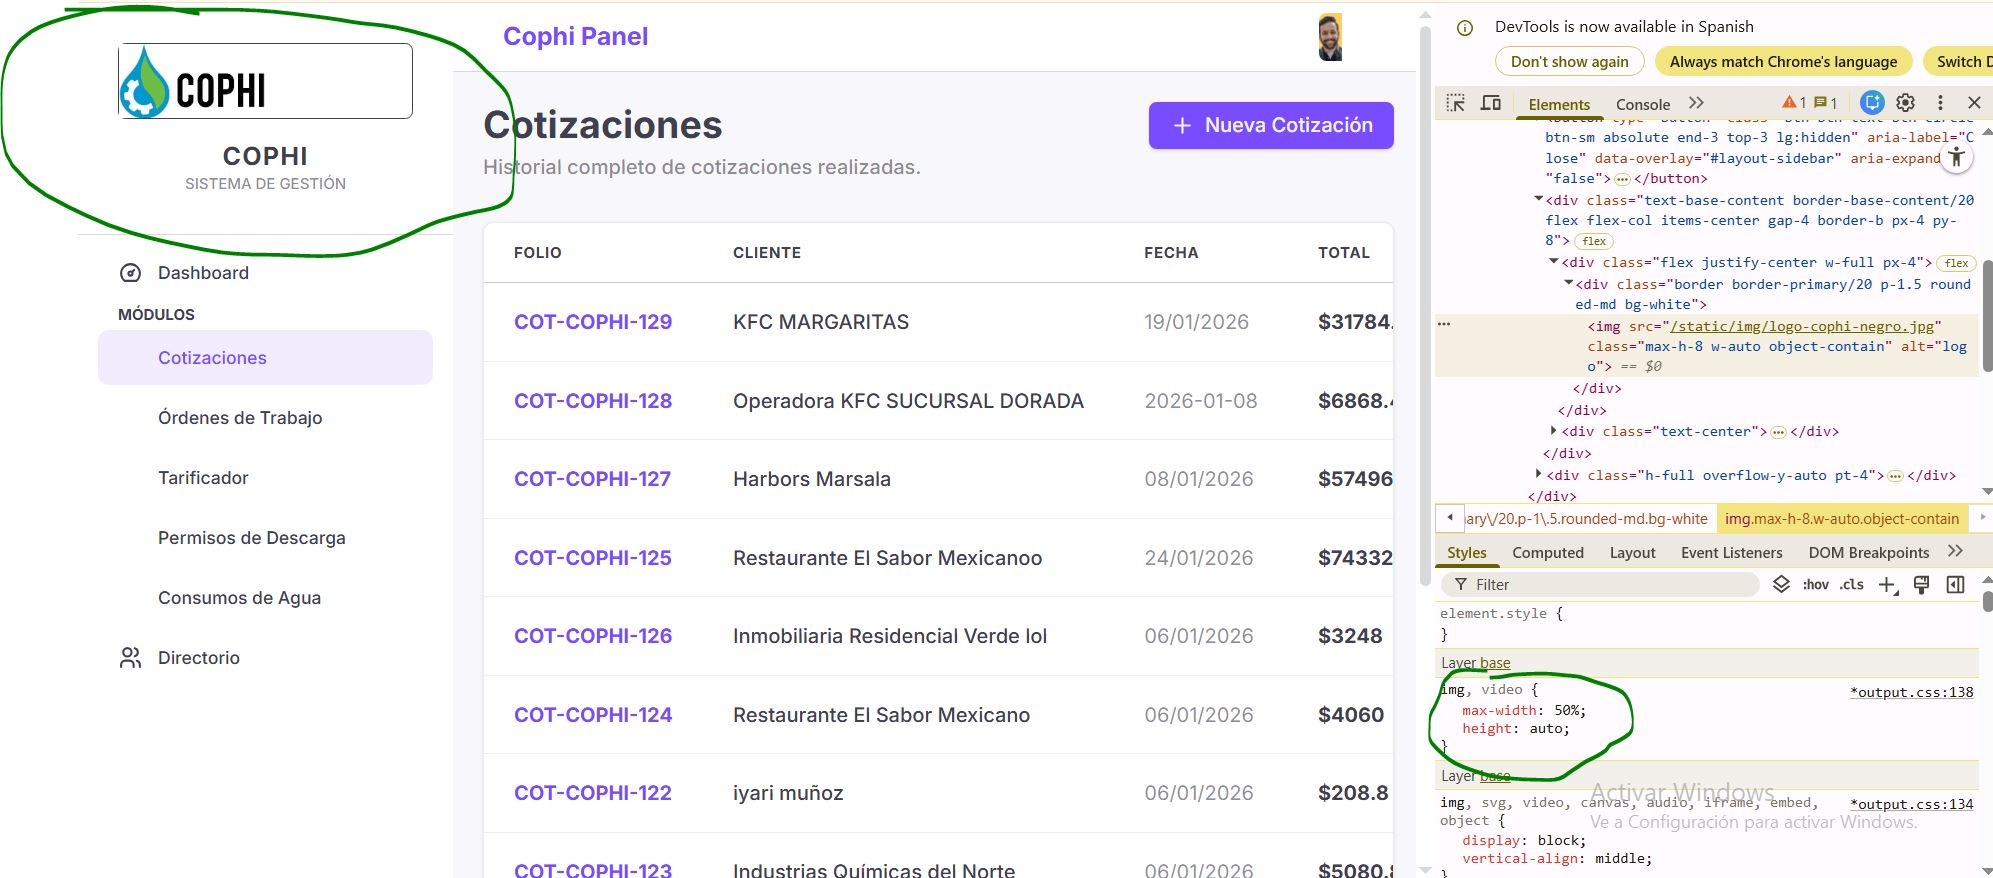
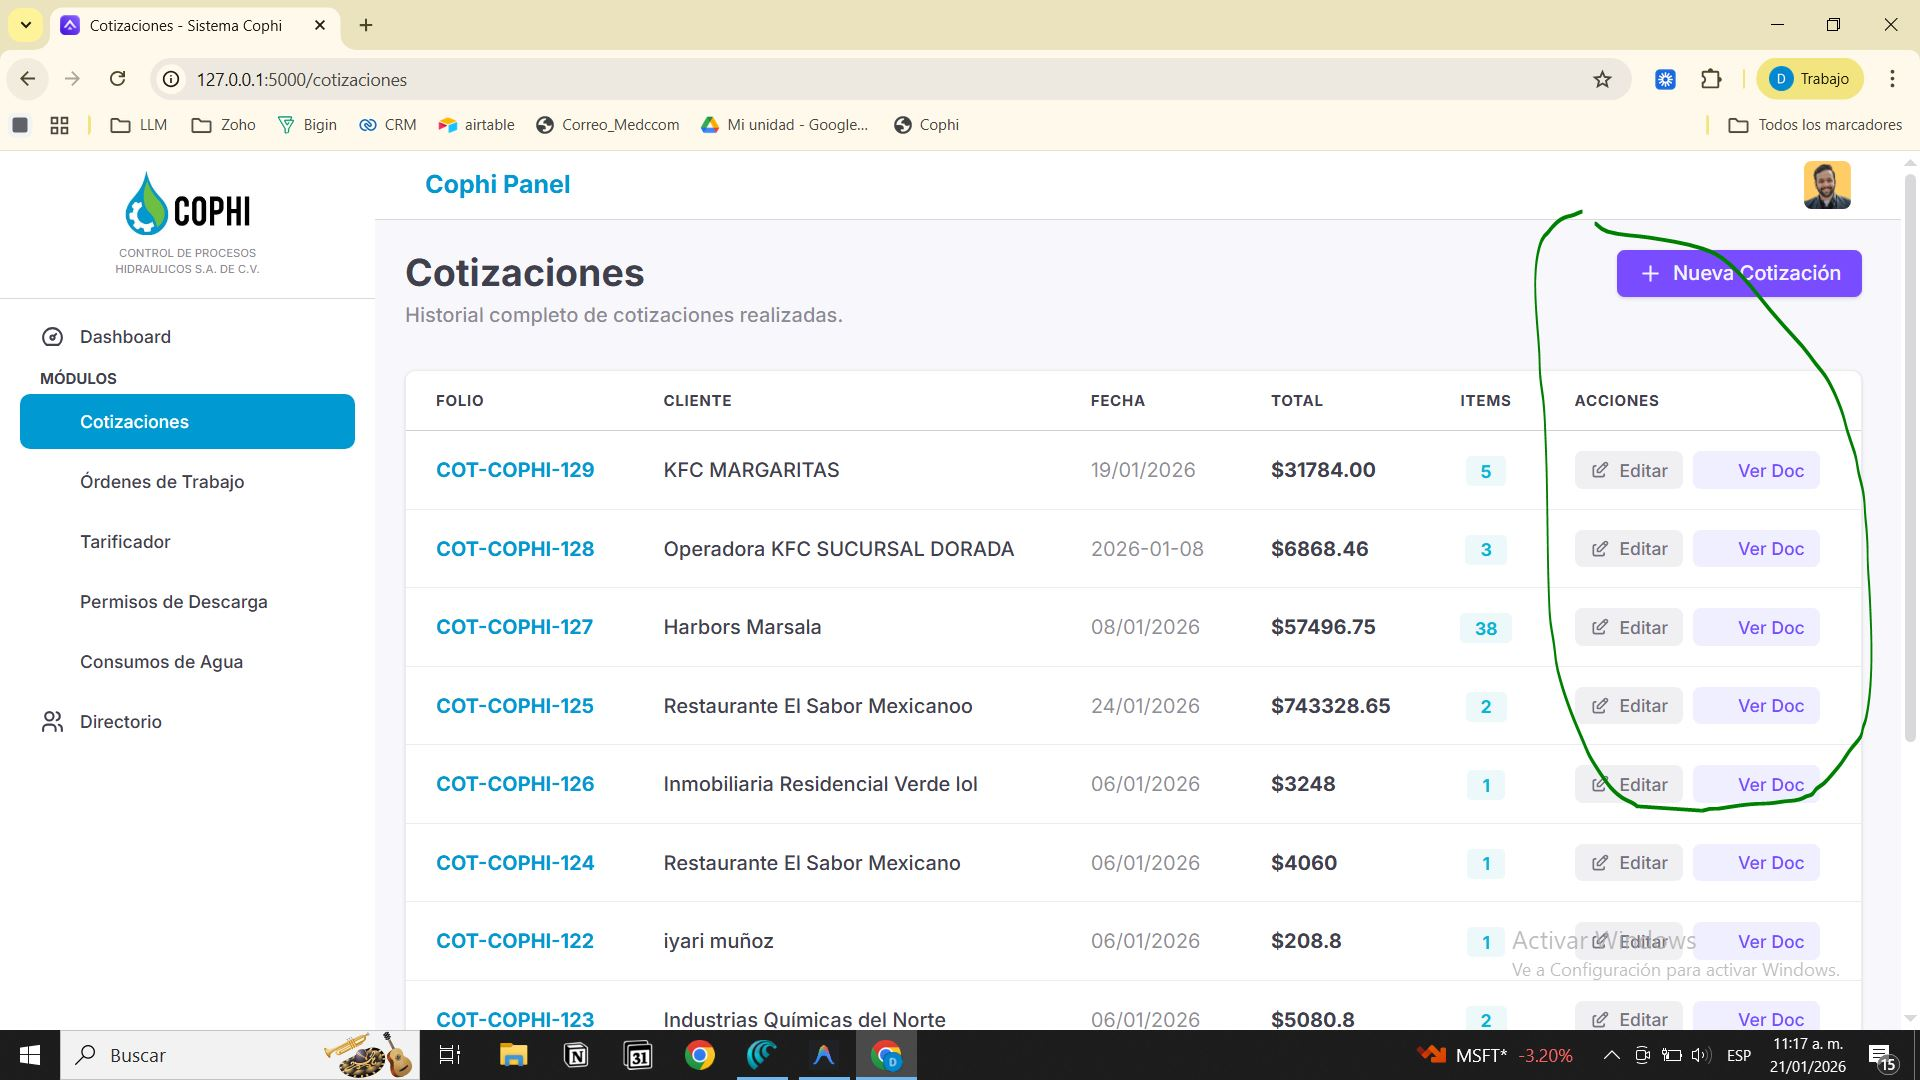
se agregaron los colores de cophi

diff --git a/interfaz/templates/base_flyonui.html b/interfaz/templates/base_flyonui.html
@@ -29,6 +29,62 @@
         .msg-success {
             border-left: 4px solid #10b981 !important;
         }
+
+        /* TEMA PERSONALIZADO COPHI - FORZADO */
+        :root,
+        [data-theme="light"] {
+            /* Primary: #0099cf (Azul Cian) */
+            --p: 196 100% 41%;
+            --pc: 0 0% 100%;
+
+            /* Secondary: #6ebe43 (Verde Lima) */
+            --s: 99 48% 50%;
+            --sc: 0 0% 100%;
+
+            /* Base content */
+            --bc: 215 19% 35%;
+        }
+
+        /* SOBRESCRIBIR COMPONENTES ESPECÍFICOS QUE NO OBEDECEN VARIABLES */
+
+        /* Botones Primarios (Nueva Cotización, etc) */
+        .btn-primary,
+        .btn.btn-primary,
+        [class*="btn-primary"] {
+            background-color: #0099cf !important;
+            border-color: #0099cf !important;
+            color: #ffffff !important;
+        }
+
+        .btn-primary:hover,
+        .btn.btn-primary:hover {
+            background-color: #007bb5 !important;
+            /* Un poco más oscuro */
+            border-color: #007bb5 !important;
+        }
+
+        /* Botones suaves/texto (Ver Doc) */
+        .btn-soft.btn-primary {
+            background-color: rgba(0, 153, 207, 0.1) !important;
+            /* Azul muy suave */
+            color: #0099cf !important;
+            border: none !important;
+        }
+
+        .btn-soft.btn-primary:hover {
+            background-color: rgba(0, 153, 207, 0.2) !important;
+        }
+
+        /* Texto Primario (Títulos, enlaces) */
+        .text-primary {
+            color: #0099cf !important;
+        }
+
+        /* Menú Activo (Sidebar) */
+        .menu-active {
+            background-color: #0099cf !important;
+            color: white !important;
+        }
     </style>
 
     {% block extra_head %}{% endblock %}
